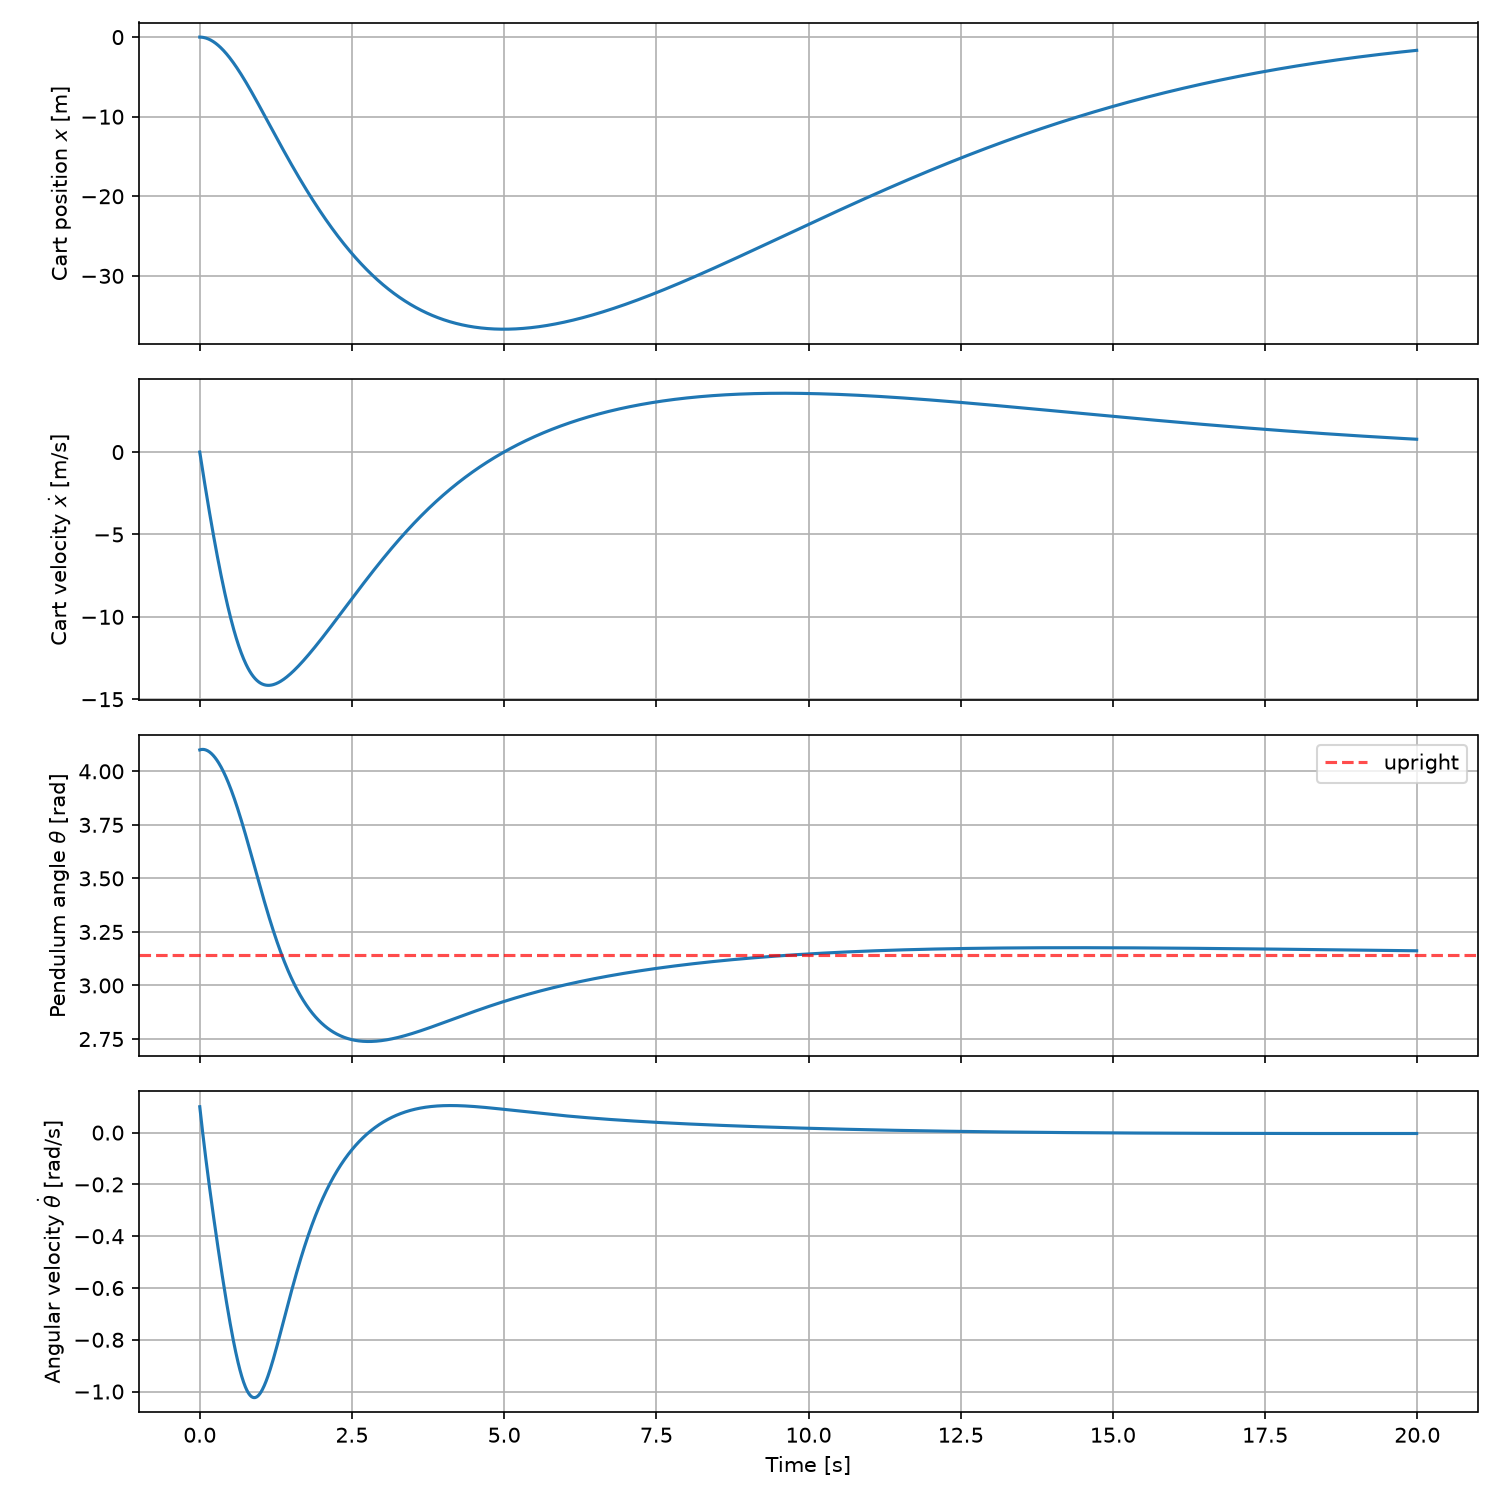
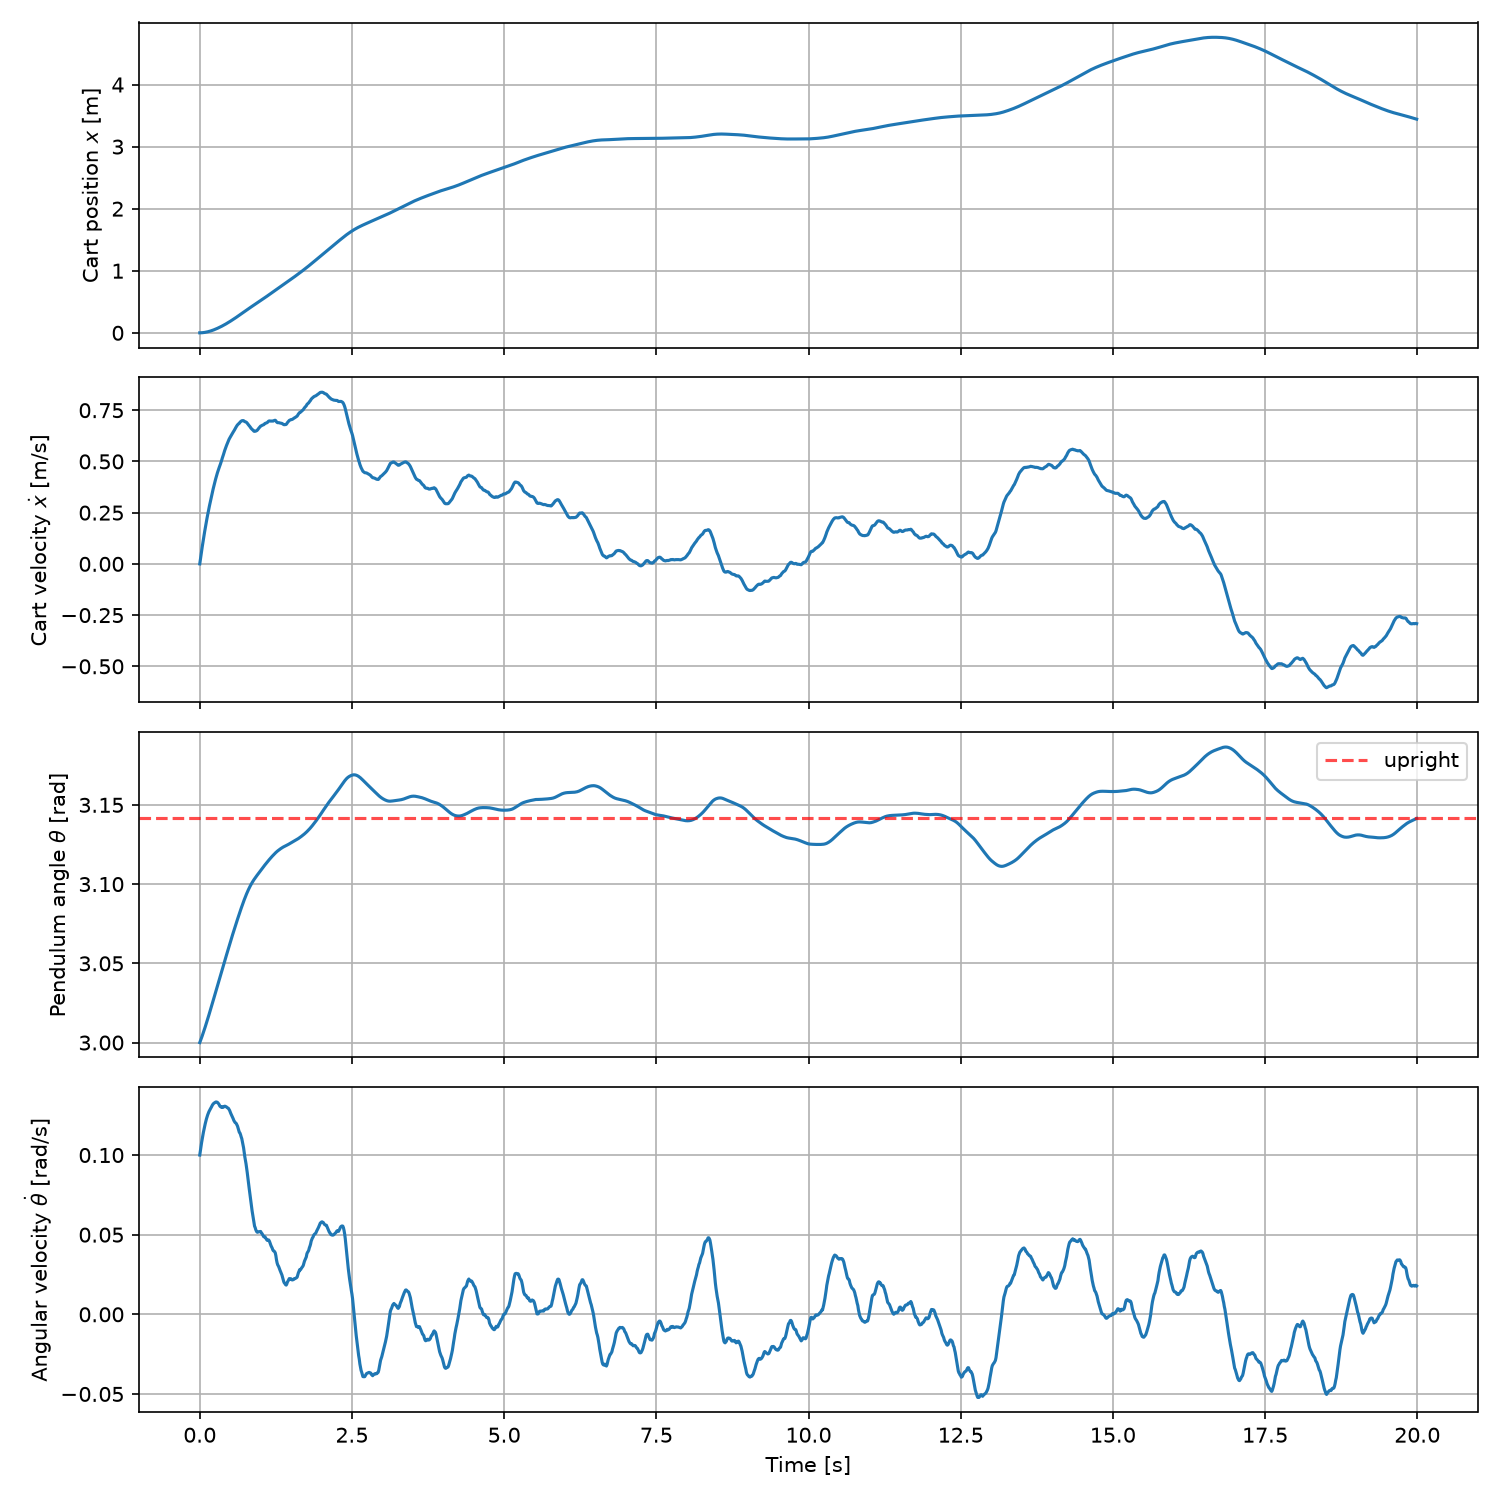
add sensor noise and kalman filter

diff --git a/main.py b/main.py
@@ -4,9 +4,10 @@ import control
 import numpy as np
 
 from CartPole import CartPole
+from controller import Controller
 
 # Parameters defining the sys
-n = 2000 # Number of samples
+n = 4000 # Number of samples
 dt = 0.01 # System timebase
 
 M = 5 # Mass of Cart
@@ -16,12 +17,15 @@ g = 9.8 # graviational acceleration
 b = 1.0 # cart damping (friction between cart and track)
 I = None # moment of Inertia of the rod
 
-z0 = [0, 0, 4.1, 0.1] # initial state [ x , x_dot , theta , theta_dot ]
+sensor_noise_std = 0.01
 
-cart_pole = CartPole(M, m, l, g, b, I)
+z0 = [0, 0, 3.0, 0.1] # initial state [ x , x_dot , theta , theta_dot ]
+z_eq = np.array([3, 0, np.pi, 0]) # equilibrium state (upright)
+
+cart_pole = CartPole(M, m, l, g, b, I, sensor_noise_std)
 
 
-# building the A and B matrices
+# building A B C matrices
 if I is None:
     I = (1/3) * m * l**2
 
@@ -37,6 +41,9 @@ B = [[0],
      [0],
      [m*l/D]] 
 
+C = [[1, 0, 0, 0],
+     [0, 0, 1, 0]]
+
 # LQR: building Q and R
 
 Q = [[1, 0, 0, 0],
@@ -45,6 +52,7 @@ Q = [[1, 0, 0, 0],
      [0, 0, 0, 2]]
 
 R = [[10]]
+
 
 def rk4_step(z, u, dt, cartpole):
     k1 = cartpole.cartpole_dynamics(z, u)
@@ -56,29 +64,42 @@ def rk4_step(z, u, dt, cartpole):
 
 # Closed Loop Simulation
 z = z0.copy()
+y = cart_pole.sensor_data(z)
 state_history = [z.copy()]
-z_eq = np.array([0, 0, np.pi, 0])
-
+sensor_history = [y.copy()]
 
 # Pole placement
 #p = [-.1,-1.3, -1.4, -0.5]
 #K = control.place(A, B, p)
 
-
 # LQR
 K, S, E = control.lqr(A, B, Q, R)
 
-
-
 u_history = []
 
+# Initialize Kalman Filter (Q, R, P_0) 
+Q_k = np.diag([1e-4, 1e-3, 1e-4, 1e-3])
+
+R_k = np.diag([sensor_noise_std**2, sensor_noise_std**2])
+
+P0 = np.diag([0, 0, 0, 0])
+
+controller = Controller(A, B, C, Q_k, R_k, K, z_eq, z0, P0, dt)
+
+
+# step
+u = [0]
+
 for i in range(n-1):
-    u = -K @ (z - z_eq)
+    y = cart_pole.sensor_data(z)
+    u = controller.step(y, u)
     u_history.append(float(u.item()))
     z = rk4_step(z, u, dt, cart_pole)
+    sensor_history.append(y.copy())
     state_history.append(z.copy())
 
 state_history = np.array(state_history)
+sensor_history = np.array(sensor_history)
 
 t = np.linspace(0, (n-1)*dt, n)
 
@@ -99,4 +120,6 @@ for i in range(4):
 
 axs[-1].set_xlabel('Time [s]')
 plt.tight_layout()
+
 plt.savefig('states.png', dpi=150)
+plt.show()

diff --git a/CartPole.py b/CartPole.py
@@ -5,20 +5,14 @@ import numpy as np
 
 class CartPole:
 
-    def __init__(self, 
-                M = 5, # Mass of Cart
-                m = 0.2, # mass of pendulum bob
-                l = 0.5, # length from pivot to pendulum's center of mass
-                g = 9.8, # graviational acceleration
-                b = 0.0, # cart damping (friction between cart and track)
-                I = None
-                ):
-        self.M = M
-        self.m = m
-        self.l = l
-        self.g = g
-        self.b = b
+    def __init__(self, M = 5, m = 0.2, l = 0.5, g = 9.8, b = 0.0, I = None, sensor_noise_std = 0):
+        self.M = M # Mass of Cart
+        self.m = m # mass of pendulum bob
+        self.l = l # length from pivot to pendulum's center of mass
+        self.g = g # graviational acceleration
+        self.b = b # cart damping (friction between cart and track)
         self.I = I
+        self.sensor_noise_std = sensor_noise_std   
 
     def cartpole_dynamics(self, z, u):
         M, m, l, g, b, I = self.M, self.m, self.l, self.g, self.b, self.I
@@ -36,5 +30,13 @@ class CartPole:
 
         x_ddot = ((I + m*l**2)*F + m**2*g*l**2*sin_t*cos_t) / D
         theta_ddot = (-m*g*l*(M+m)*sin_t - m*l*cos_t*F) / D
-            
+        
         return np.array([x_dot, x_ddot, theta_dot, theta_ddot])
+
+    def sensor_data(self, z): # returns [ x, theta ] with sensor noise and 
+        x, x_dot, theta, theta_dot = z
+
+        x_measured = x + np.random.normal(0, self.sensor_noise_std)
+        theta_measured = theta + np.random.normal(0, self.sensor_noise_std)
+
+        return np.array([x_measured, theta_measured])

diff --git a/controller.py b/controller.py
@@ -1,0 +1,41 @@
+import numpy as np
+import scipy.signal as sig
+
+class Controller:
+
+    def __init__(self, A, B, C, Q_kf, R_kf, K_lqr, z_eq, x_hat0, P0, dt):
+        A, B = np.array(A), np.array(B)
+        Ad, Bd, _, _, _ = sig.cont2discrete((A, B, np.eye(A.shape[0]), np.zeros((A.shape[0], B.shape[1]))), dt, method='zoh')
+        self.A = Ad
+        self.B = Bd
+        self.C = np.array(C)
+        self.Q_d = np.array(Q_kf) * dt
+        self.R_kf = R_kf
+        self.K_lqr = K_lqr
+        self.z_eq = z_eq
+        self.x_hat = x_hat0
+        self.P = P0
+
+    def step(self, y_measured, u_prev):
+        # 1. Kalman filter: predict + update using y_measured
+        self.x_hat, self.P = self._kalman_update(self.x_hat, self.P, y_measured, u_prev)
+        
+        # 2. LQR: compute control from the estimated state
+        u = -self.K_lqr @ (self.x_hat - self.z_eq)
+        return u
+
+    def _kalman_update(self, x_hat, P, y, u):
+        A, B, C, Q, R = self.A, self.B, self.C, self.Q_d, self.R_kf
+        n = A.shape[0]
+
+        # Prediction
+        delta_hat = x_hat - self.z_eq
+        delta_priori = A @ delta_hat + B @ u
+        x_priori = delta_priori + self.z_eq
+        P_priori = A @ P @ A.T + Q
+
+        # Update 
+        Kf = (P_priori @ C.T) @ np.linalg.inv(C @ P_priori @ C.T + R)
+        x_posteriori = x_priori + Kf @ (y - C @ x_priori)
+        P_posteriori = (np.identity(n) - Kf @ C) @ P_priori
+        return x_posteriori, P_posteriori
